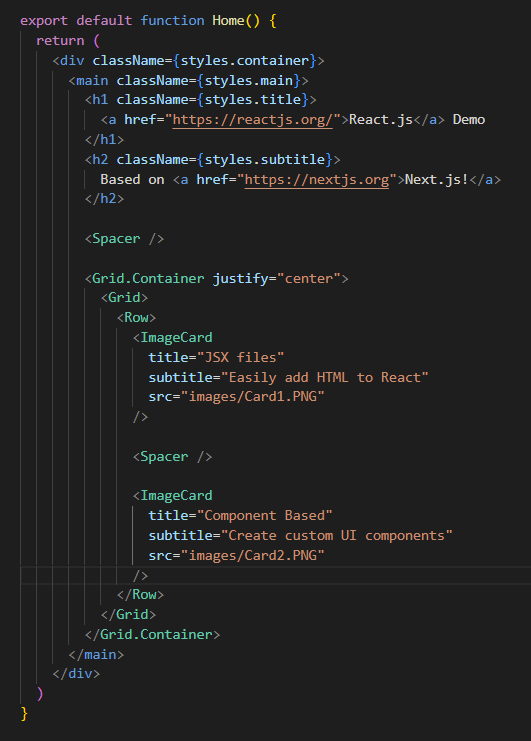
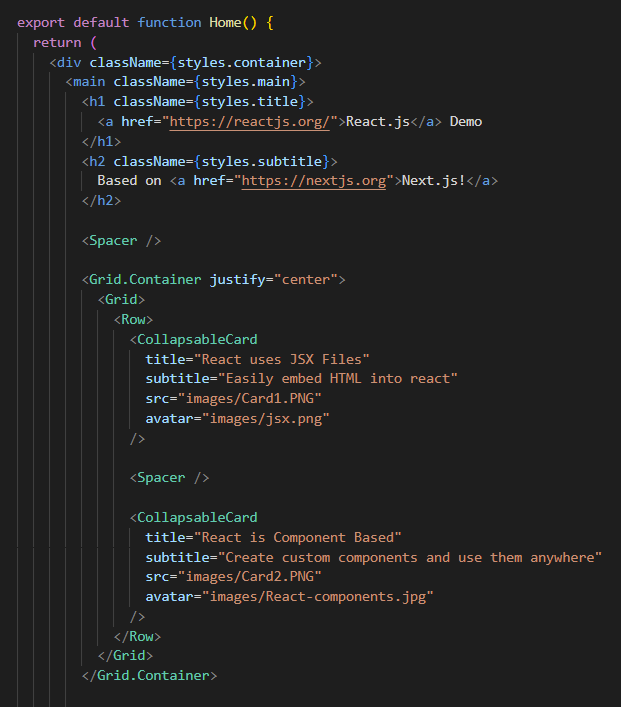
finished demo

Changed region(s): [[0.0301, 0.0, 0.9642, 0.9958]]

diff --git a/demo/pages/index.js b/demo/pages/index.js
@@ -1,7 +1,7 @@
 import Head from 'next/head'
 import styles from '../styles/Home.module.css'
-import { Grid, Col, Row, Spacer } from '@nextui-org/react'
-import ImageCard from './ImageCard'
+import { Grid, Row, Spacer } from '@nextui-org/react'
+import CollapsableCard from './CollapsableCard'
 
 import * as React from 'react';
 
@@ -22,18 +22,20 @@ export default function Home() {
         <Grid.Container justify="center">
           <Grid>
             <Row>
-              <ImageCard
-                title="JSX files"
-                subtitle="Easily add HTML to React"
+              <CollapsableCard
+                title="React uses JSX Files"
+                subtitle="Easily embed HTML into react"
                 src="images/Card1.PNG"
+                avatar="images/jsx.png"
               />
 
               <Spacer />
 
-              <ImageCard
-                title="Component Based"
-                subtitle="Create custom UI components"
+              <CollapsableCard
+                title="React is Component Based"
+                subtitle="Create custom components and use them anywhere"
                 src="images/Card2.PNG"
+                avatar="images/React-components.jpg"
               />
             </Row>
           </Grid>

diff --git a/demo/pages/CollapsableCard.js b/demo/pages/CollapsableCard.js
@@ -1,0 +1,41 @@
+
+import { Card, Text, Collapse, Image, Avatar } from "@nextui-org/react";
+
+
+
+export default function CollapsableCard(props) {
+    return (
+        <div>
+            <Collapse.Group splitted css={{width: "40vw"}}>
+                <Collapse
+                    class="collapse"
+                    css={{ backgroundColor: "black !important" }}
+                    title={
+                    <Text h2 color="white">
+                        {props.title}
+                    </Text>
+                    }
+                    contentLeft={
+                        <Avatar
+                            size="xl"
+                            src={props.avatar}
+                            squared
+                        />
+                    }
+                >
+                    <Text h4 color="white">
+                        {props.subtitle}
+                    </Text>
+                    <Image
+                        src={props.src}
+                        objectFit="cover"
+                        width="100%"
+                        height="100%"
+                        alt={props.title}
+                    />
+                </Collapse>
+            </Collapse.Group>
+
+        </div>
+    );
+}

diff --git a/demo/styles/globals.css b/demo/styles/globals.css
@@ -6,6 +6,8 @@ body {
     Ubuntu, Cantarell, Fira Sans, Droid Sans, Helvetica Neue, sans-serif;
 }
 
+
+
 a {
   color: inherit;
   text-decoration: none;
@@ -14,4 +16,3 @@ a {
 * {
   box-sizing: border-box;
 }
-

diff --git a/demo/styles/Home.module.css b/demo/styles/Home.module.css
@@ -103,6 +103,7 @@
   line-height: 1.5;
 }
 
+
 .logo {
   height: 1em;
   margin-left: 0.5rem;
